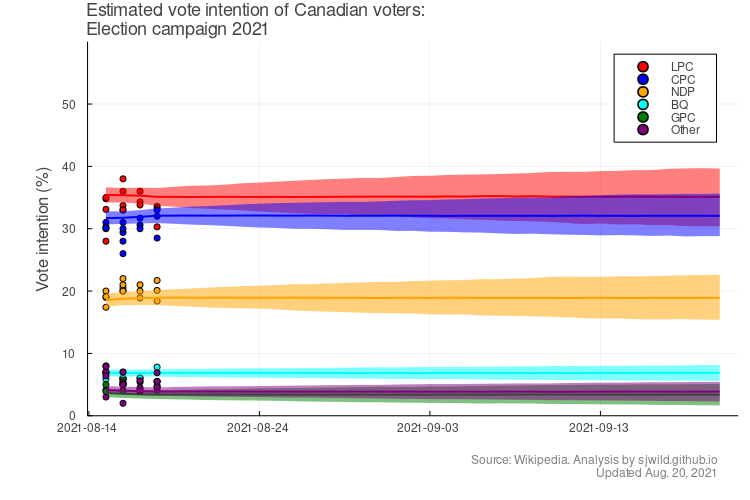
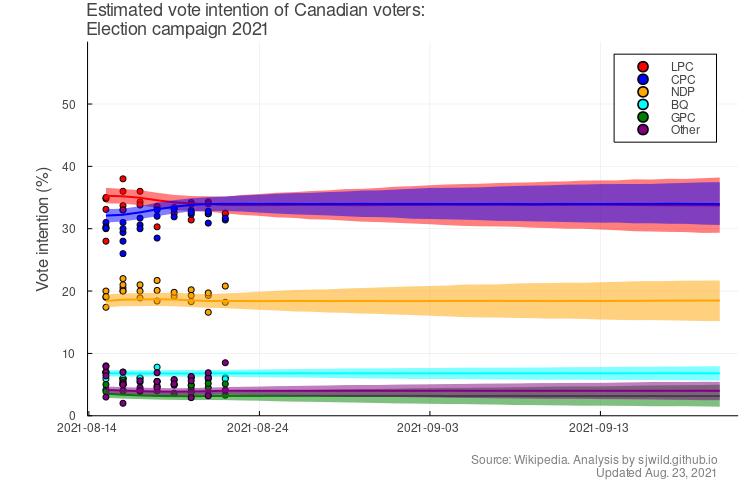
Update August 24

Changed region(s): [[0.1227, 0.33, 0.9813, 0.48], [0.1533, 0.72, 0.9813, 0.84], [0.1533, 0.54, 0.9813, 0.66]]

diff --git a/README.md b/README.md
@@ -19,23 +19,11 @@ The Julia model is run using Turing.jl. The Turing model is coded using a differ
 The predictions for voting intention (that is, for the period after 2019-10-21, the date of 2019 Canadian election) assume that the polling errors are the same after the election as before it. That may or may not be true. I suspect that polling errors are correlated between periods.
 
 ## Vote intention
-As of August 20, 2021, these are the estimated vote shares based on Canadian polls up to August 18, 2021:
-
-|**Party**    | **Vote share**  | **95% bounds**     |
-|-------------|:---------------:|:------------------:|
-|**LPC**      | 35.1%           | (33.5%, 36.7%)     |
-|**CPC**      | 32.1%           | (30.8%, 33.4%)     |
-|**NDP**      | 18.9%           | (17.7%, 20.3%)     |
-|**BQ**       | 6.9%            | (6.2%, 7.5%)       |
-|**GPC**      | 3.4%            | (2.6%, 4.2%)       |
-|**Other**    | 3.9%            | (3.2%, 4.6%)       |
 
 ![alt text](https://github.com/sjwild/Canandian_Election_2021/raw/main/can_vote_intention_on_election_date.png "Density plot of estimated vote share per party.")
 
-Overall, vote intention has been relatively stable since the last federal election. There was a bump in support for the Liberal Party of Canada at the beginning of the pandemic, but that increase in support has dropped. 
 
 ![alt text](https://github.com/sjwild/Canandian_Election_2021/raw/main/can_vote_intention_2019_2021.png "Vote share of Canadian parties from 2019 to 2021.")
-
 
 
 ![alt text](https://github.com/sjwild/Canandian_Election_2021/raw/main/can_vote_intention_2015_2021.png "Vote share of Canadian parties from 2015 to 2021.")
